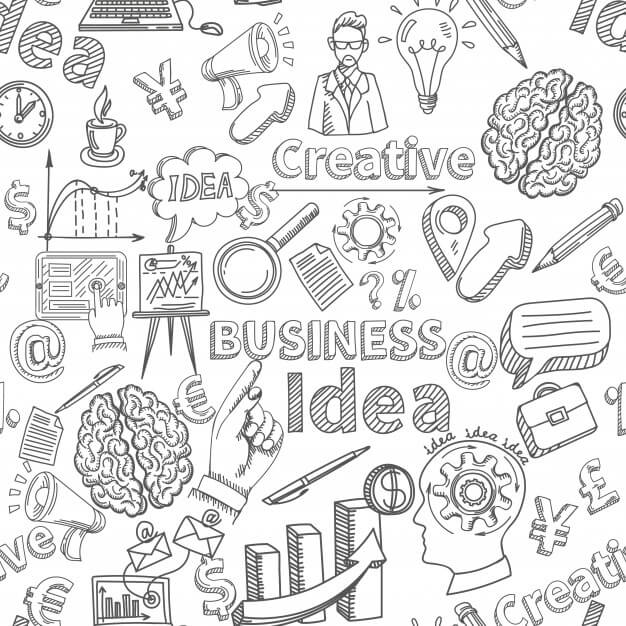
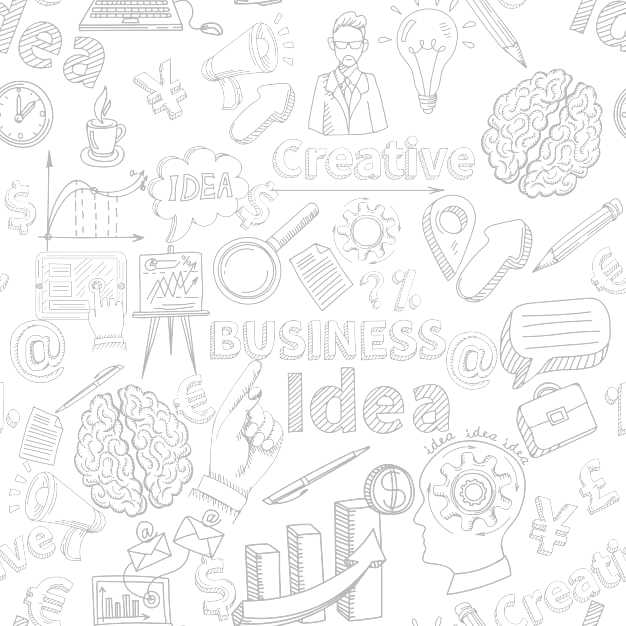
styling

diff --git a/_layouts/post.html b/_layouts/post.html
@@ -4,7 +4,7 @@ layout: postlayout
 <article>  
   <amp-img class="article-image" src="{{ page.image }}" alt="CoverImage" height="100" width="100" layout="responsive"></amp-img>    
   <div class="blog-article-image-gradient hidden-bigger-than-mobile"></div>
-    <div class="container">   
+    <div class="container snippet-articles">   
     <a class="back-button" href="http://craig.goddenpayne.co.uk"><</a>	                
     <div class="blog-article-header">
       <div class="clearfix">

diff --git a/_includes/styles.html b/_includes/styles.html
@@ -237,4 +237,8 @@ table thead th {
         height: 5rem;
     }
 
+    .snippet-articles {
+        opacity: 0.85;
+    }
+
 </style>
